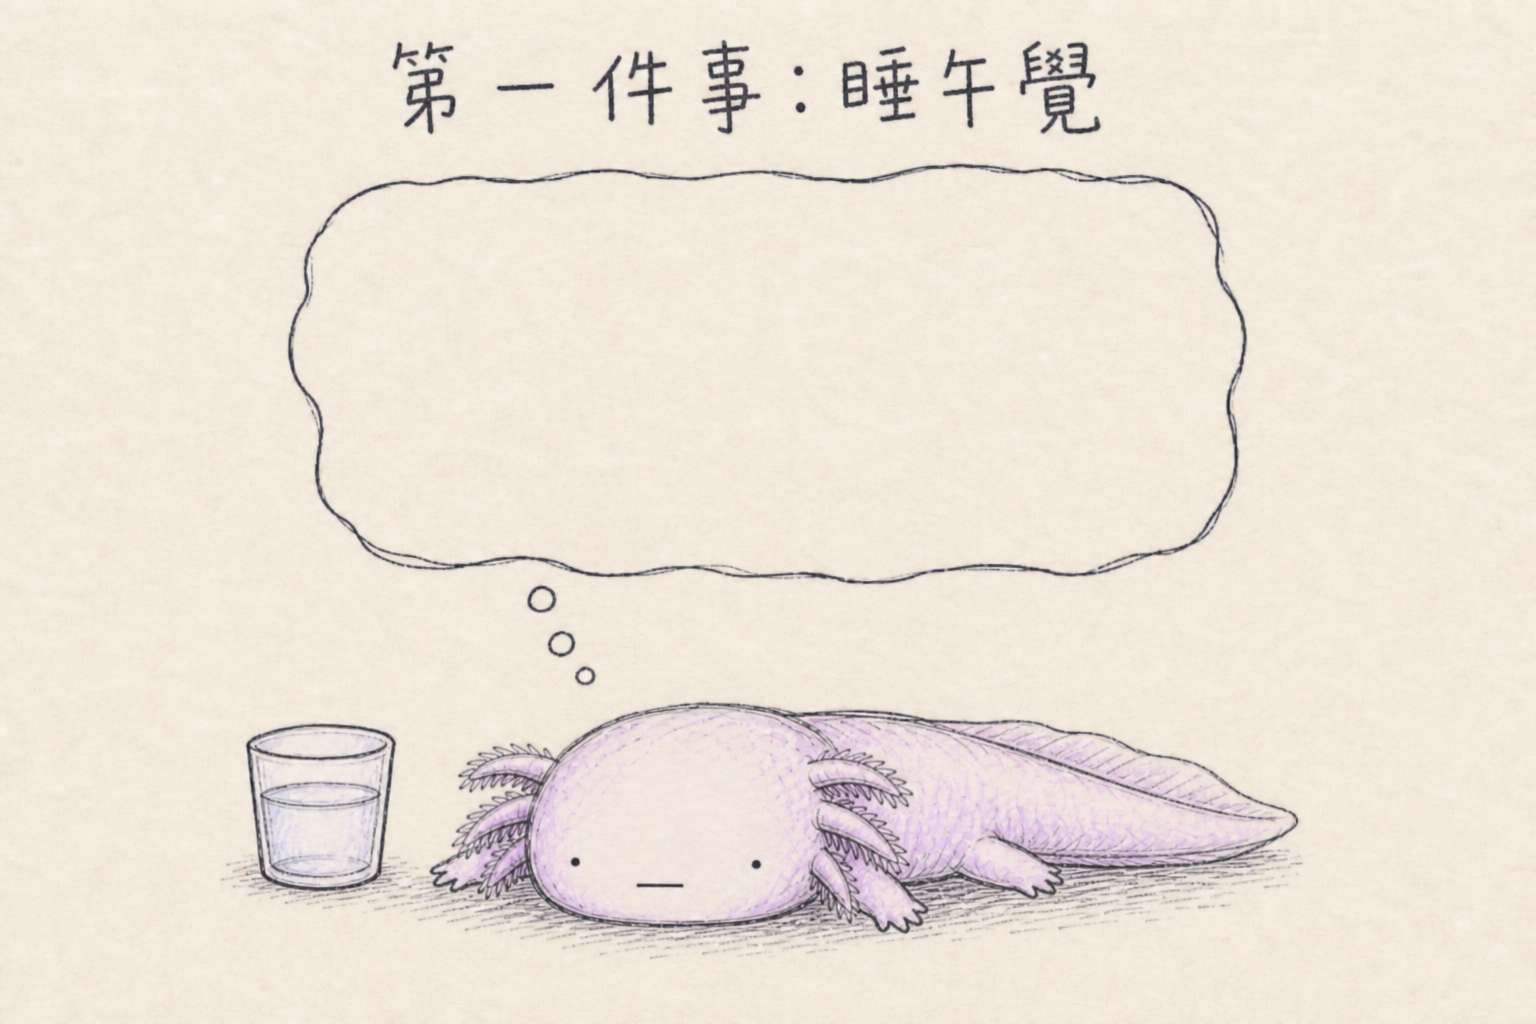
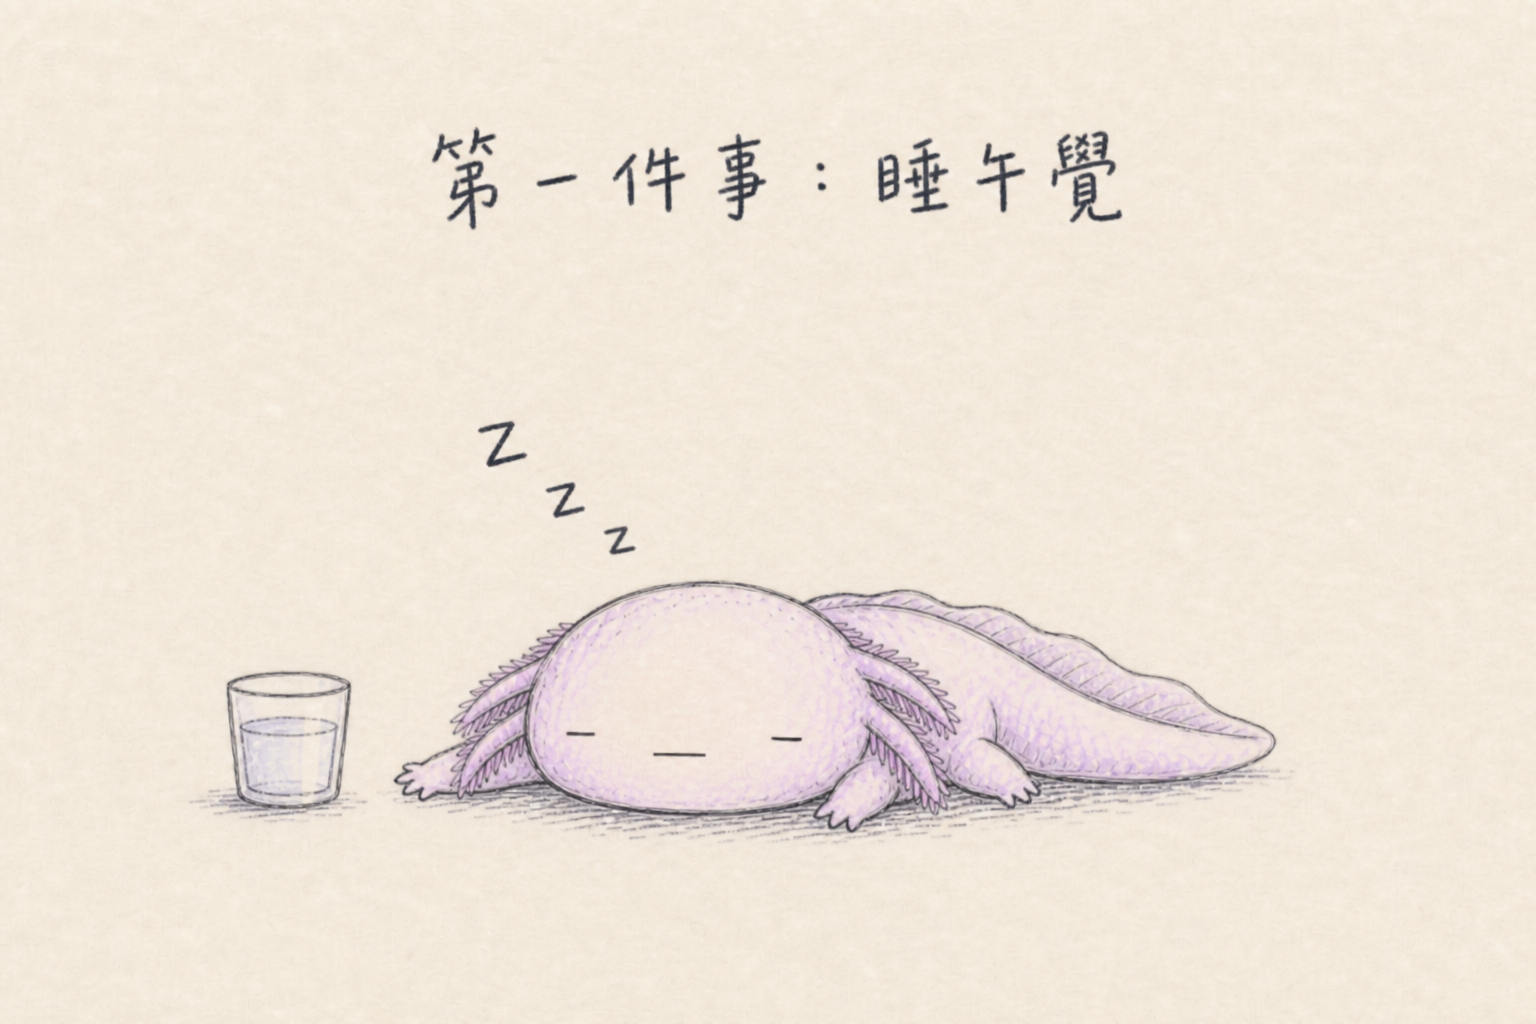
Day 2 slide 2: deep sleep with Zzz, no cloud, stubby baby limbs

diff --git a/docs/ig-launch-zh-TW.md b/docs/ig-launch-zh-TW.md
@@ -58,7 +58,7 @@
 | 天 | 主題 | 繁中主文案 | 英文副文案（可選） |
 |----|------|------------|-------------------|
 | **1** | 發呆 | 今天什麼都沒做，什麼也沒想。（**空白思考雲**） | I am doing nothing today, and thinking nothing. |
-| **2** | 麵碗震驚 | 鰓直立、狂流汗、超大碗麵（見 caption） | Giant noodles. Gills up. Brain offline. |
+| **2** | 待辦→午睡 | 輪播 2 格：站立拿水杯 → 趴睡（見 ig-day2-comic） | Many things → Thing 1: Nap. |
 | **3** | 已讀不回 | 訊息已讀，靈魂離線。 | Seen. Soul offline. |
 | **4** | 鬧鐘 | 鬧鐘響了，我沒有。 | Alarm rang. I didn't. |
 | **5** | 週一 | 週一：存在，但不參與。 | Monday: present, not participating. |

diff --git a/docs/ig-day2-comic-zh-TW.md b/docs/ig-day2-comic-zh-TW.md
@@ -22,10 +22,10 @@
 
 | 項目 | 內容 |
 |------|------|
-| 姿勢 | **趴在地上睡著**（肚皮貼地，四肢微張，尾巴向側）— 參考品牌睡姿圖 |
+| 姿勢 | **趴地熟睡**（肚皮貼地）— 身體參考品牌睡姿圖；**手腳很幼、很短** |
 | 道具 | 水杯**放在旁邊地上** |
-| 外鰓 | **放鬆垂下**（非驚嚇直立） |
-| 思考雲 | 可選空白雲（與睡姿參考一致） |
+| 外鰓 | **放鬆垂下** |
+| 睡眠符號 | 頭上 **Zzz**（**不要**空白思考雲） |
 | 手寫字 | **第一件事：睡午覺。** |
 | English | Thing 1: Nap. |
 | 檔案 | `png/axo-pen-day2-slide2.png` |

diff --git a/docs/ig-captions-zh-TW.md b/docs/ig-captions-zh-TW.md
@@ -101,7 +101,7 @@ I am doing nothing today, and thinking nothing. 🫠
 | 格 | 畫面 | 手寫字 |
 |----|------|--------|
 | **Slide 1** | 雙腳站立、手拿水杯、豆豆眼直視前方 | 今天我要做很多事。 |
-| **Slide 2** | 趴地睡著、杯放旁邊、外鰓垂下 | 第一件事：睡午覺。 |
+| **Slide 2** | 趴地熟睡、Zzz、杯放旁邊、幼手幼腳、**無思考雲** | 第一件事：睡午覺。 |
 
 ### 繁中 Caption（複製用）
 
